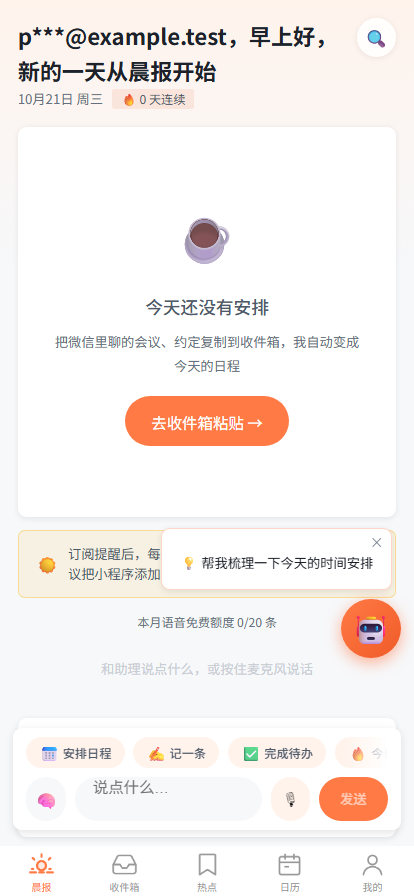
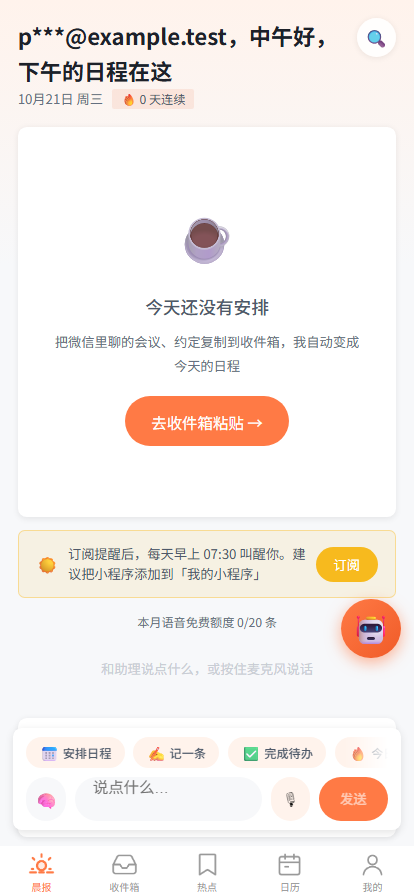
fix(briefing): 订阅提示条被引导气泡遮挡修复 + 清理空目录 + 驱动预置协议同意
- .subscribeTip 抬 z-index:910（位于 --z-fab=900 之上）：AI 建议气泡 8s 自动收起属瞬时层，
  常驻订阅提示条优先保证可读；已重拍真机截图验证「订阅」条完整露出
- 清理 src/pages/settings/ 与 src/pages/index/ 空目录（本就是空壳、git 未跟踪，
  docs 已注明设置能力全部并入 mine 页）
- visual-pass.mjs 预置 privacy-consent 注入（v1.5-20261013）：免点协议弹窗，
  截图时序确定、8s 自动收起的气泡必然在窗内
- 晨报/ 归档文件夹同步样式副本与最新验证截图

Changed region(s): [[0.3768, 0.5625, 0.9565, 0.6562], [0.029, 0.0625, 0.5217, 0.0938], [0.6087, 0.0312, 0.7246, 0.0625]]

diff --git a/src/pages/briefing/index.module.scss b/src/pages/briefing/index.module.scss
@@ -802,6 +802,12 @@
   display: flex;
   align-items: center;
   gap: $spacing-sm;
+  // 2026-10-21 视觉巡检：AI 悬浮建议气泡（AiAssistant wrapper，z-index: var(--z-fab)=900）
+  // 在 414px 手机宽度下会盖住本常驻条右侧文字「…建议把小程序添加」。把本条抬到 900 之上：
+  // 气泡 8s 自动收起且可手动关闭，是瞬时装饰；订阅提示是常驻信息，优先保证可读。
+  // position:relative 是让 z-index 生效的前提（静态元素不参与 stacking）。
+  position: relative;
+  z-index: 910;
 }
 
 .tipIcon {

diff --git a/晨报/源码/页面/index.module.scss b/晨报/源码/页面/index.module.scss
@@ -802,6 +802,12 @@
   display: flex;
   align-items: center;
   gap: $spacing-sm;
+  // 2026-10-21 视觉巡检：AI 悬浮建议气泡（AiAssistant wrapper，z-index: var(--z-fab)=900）
+  // 在 414px 手机宽度下会盖住本常驻条右侧文字「…建议把小程序添加」。把本条抬到 900 之上：
+  // 气泡 8s 自动收起且可手动关闭，是瞬时装饰；订阅提示是常驻信息，优先保证可读。
+  // position:relative 是让 z-index 生效的前提（静态元素不参与 stacking）。
+  position: relative;
+  z-index: 910;
 }
 
 .tipIcon {

diff --git a/晨报/参考资料.md b/晨报/参考资料.md
@@ -37,4 +37,6 @@
 - 全部 `bodyOk:true`、0 exception；library（热点）拉到当日真实数据（10-21 09:41，14 个源）
 - 实测在位：A5 脱敏（p***@example.test）、G1 空态 CTA、G5 引导三场景、D4 textarea 无 resize 手柄、D5 按钮间距、D8 底部不被 tabbar 压、D6 热点来源只显示 3 个+「等14个」、D9 我的页标题/副标题分行
 - 发现并已处理：**D2 复现**（414px 下 placeholder 截断）→ 已修（`briefing.inputPlaceholder` 改「说点什么…」）并重拍验证
-- 遗留小项（未改）：晨报订阅提示条被浮动引导气泡「帮我梳理一下今天的时间安排」部分遮挡（可关闭）；`src/pages/settings/` 目录存在但未注册进 `app.config.ts`（不可达死代码，待产品决策）
+- 本轮两项收尾（2026-10-21，已修已验证）：
+  ① 晨报订阅提示条曾被浮动引导气泡遮挡 → `.subscribeTip` 抬 `z-index: 910`（气泡 8s 自动收起且可关闭，属瞬时层；常驻条优先保证可读），已重拍验证「订阅」条完整可读；
+  ② `src/pages/settings/`、`src/pages/index/` 实为空目录（git 未跟踪；docs 已注明设置能力全部并入 mine 页）→ 已清理。

diff --git a/晨报/README.md b/晨报/README.md
@@ -110,7 +110,8 @@
 |---|---|
 | `f5edece` | P1a：定时推送尊重 briefingTime（分桶触发器 + 分流） |
 | `8fdc553` | cloudLlm.ts 3 处非空断言收口（Task #205） |
-| 待提交 | D2 修复：`briefing.inputPlaceholder` 改短为「说点什么…」（414px 截断复现后修）；新增 `.tools/visual-pass.mjs` 视觉巡检工具；建本归档文件夹 |
+| `d45b860` | D2 修复（placeholder 改「说点什么…」）+ `.tools/visual-pass.mjs` 视觉巡检工具 + 建本归档文件夹 |
+| 续修 | 晨报订阅提示条遮挡修复（`.subscribeTip` z-index:910，重拍验证）+ 清理空目录 settings/index + 驱动预置协议同意注入（详见 `参考资料.md`） |
 
 ## 同步方式（改完原位代码后刷新副本）
 
